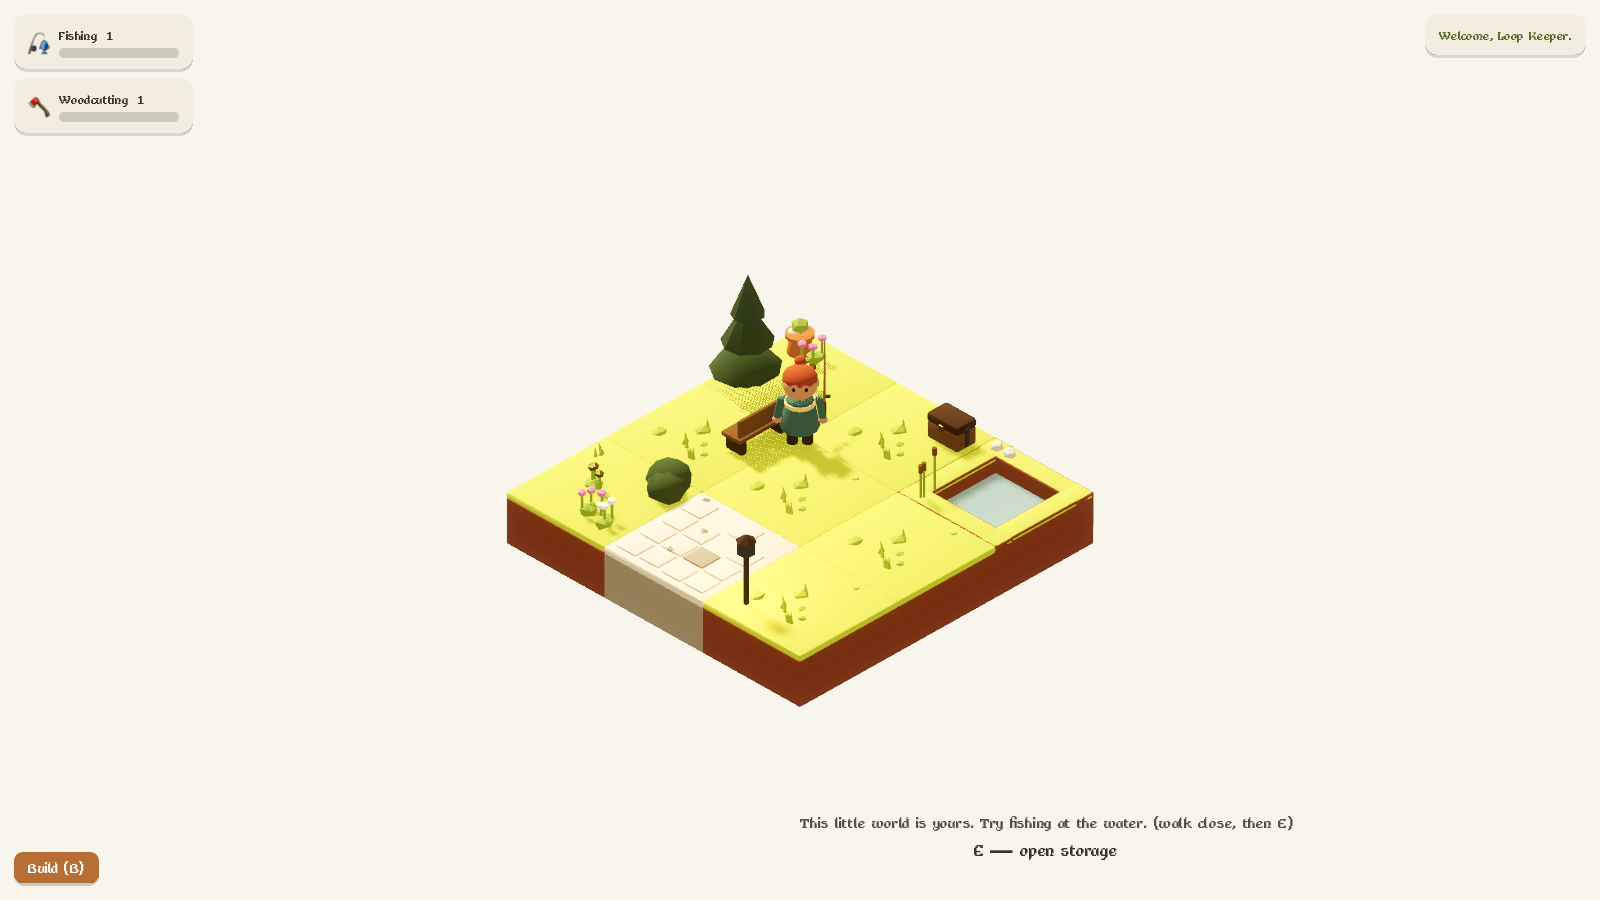
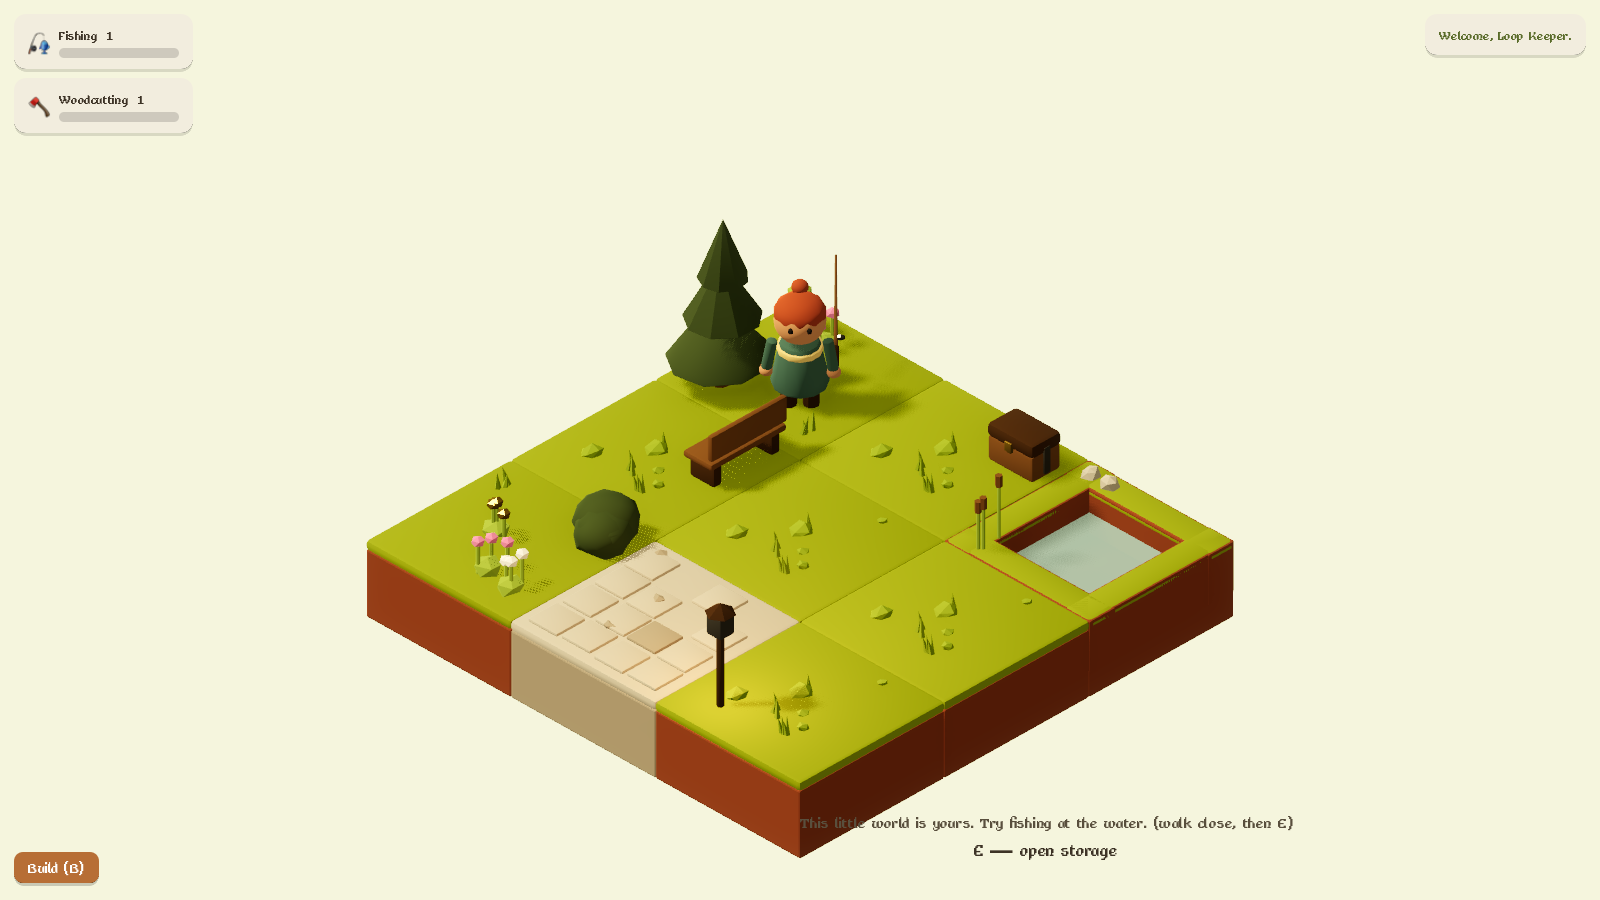
feat: refine original cozy diorama presentation

Changed region(s): [[0.2188, 0.2489, 0.7812, 0.9644]]

diff --git a/docs/STYLE_BREAKDOWN.md b/docs/STYLE_BREAKDOWN.md
@@ -96,3 +96,15 @@ calibration target for the Style Lab, not a guess.
 - No outlines, no pixelation, no gradients in the background, no photoreal textures,
 - no blue-gray stone (stone stays warm), no black shadows, no glossy plastic (roughness
   high everywhere except water/gold), no thin geometry that vanishes at distance.
+
+## Runtime calibration decisions
+
+- The nine-tile opening is framed at an 8.8 orthographic size. This makes the starting
+  diorama the focal object while retaining generous background space; build mode backs
+  out by 3.2 units so adjacent placement cells remain visible.
+- Horizontal grass and pale-stone albedos are compensated under the production key
+  light instead of copying Blender viewport values blindly. Vertical foliage, wood,
+  character, and UI colors retain their authored display values so shadow-facing
+  surfaces do not crush toward black.
+- Rain uses the flat environment color without depth fog. Depth fog was tinting the
+  horizon-free background to black, which violated the green-gray diorama target.
